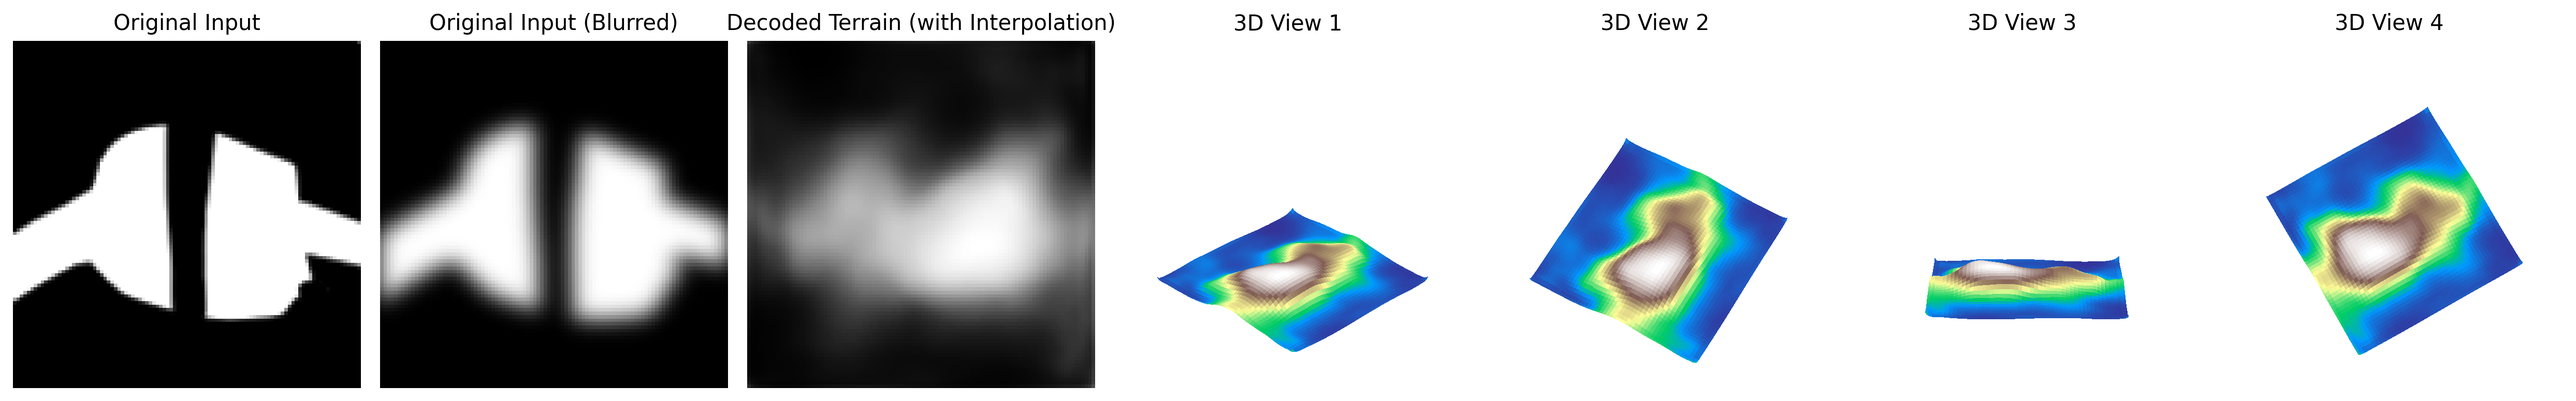
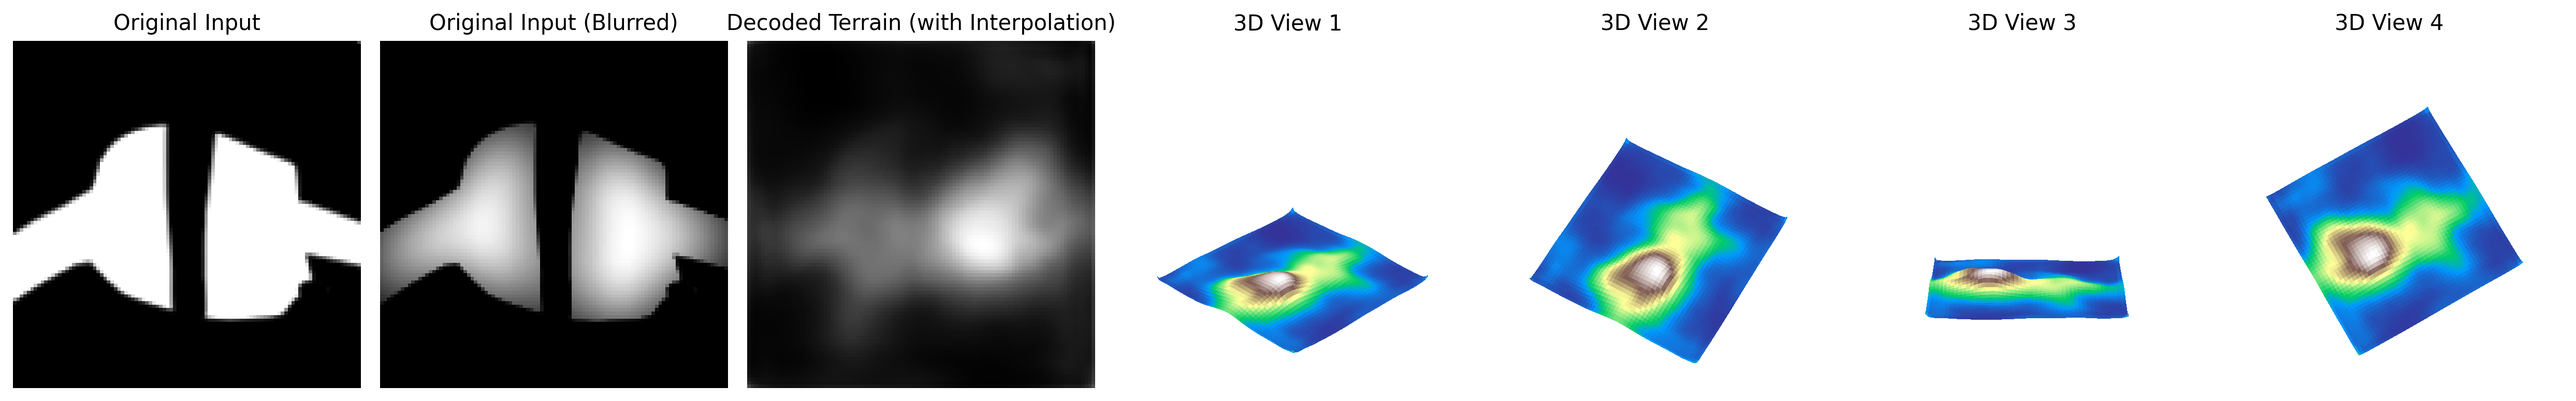
blur user input before generation in a better way by keeping boundaries

diff --git a/usage.py b/usage.py
@@ -34,11 +34,12 @@ model.load_state_dict(checkpoint["model_state_dict"])
 model.eval()
 
 # Load one input image from inputs/
-img_path = "example1.png"
+img_path = "example5.png"
 img = Image.open(os.path.join("inputs", img_path)).convert("L").resize((hpcfg.img_size, hpcfg.img_size))
 x = torch.tensor(np.array(img), dtype=torch.float32).unsqueeze(0).unsqueeze(0) / 255.0
 x_orig = x.clone()  # save copy
-x = gaussian_blur(x, blur_size=25, sigma=3)  # blur user input
+x = gaussian_blur(x, blur_size=33, sigma=9)  # blur user input
+x = torch.minimum(x, x_orig)  # save pre-defined black boundaries, add some "slope" via blurring
 x = x.to(device)
 
 print(terrain_counts_tensor(x.squeeze(), 10, device=device))
